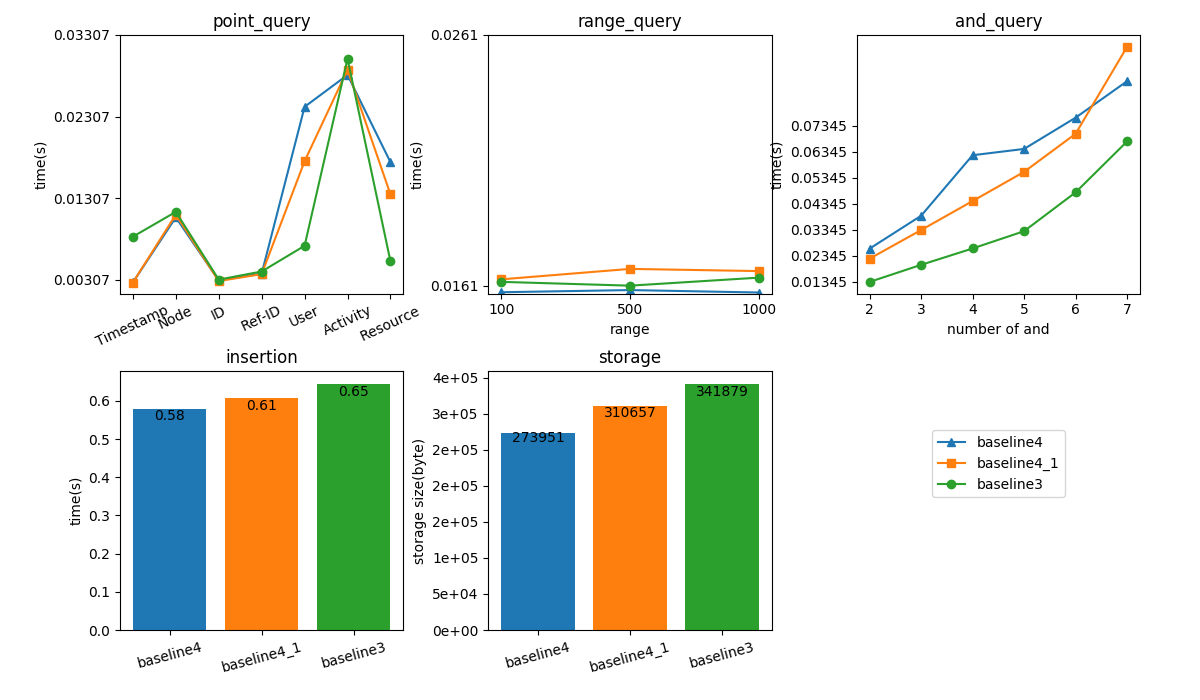
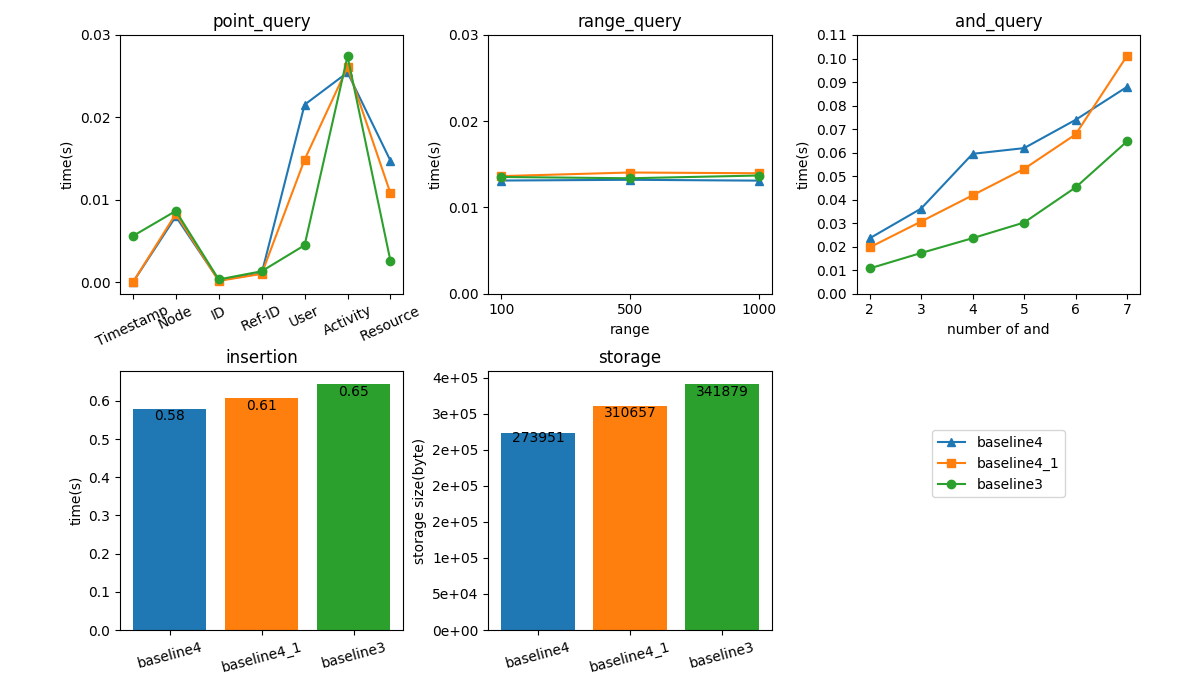
Add y asxis scale

diff --git a/draw.py b/draw.py
@@ -50,15 +50,18 @@ def main():
     for result in results:
         with open(result+'.json', 'r') as f:
             benchmark.append(json.load(f))
+    ymin = sys.maxsize
+    ymax = 0
     for i in range(len(titles)):
         ax = plt.subplot(ROWs, COLs, i+1)
         for j, b in enumerate(benchmark):
             p = plt.plot(b[titles[i]].keys(),
                          b[titles[i]].values(), marker=markers[j])
             colors.append(p[0].get_color())
-        # ax.yaxis.set_major_formatter(ticker.FormatStrFormatter('%.2f'))
-        plt.yticks(np.arange(min(b[titles[i]].values()),
-                             max(b[titles[i]].values())+SCALE, SCALE))
+            ymin = min(ymin, min(b[titles[i]].values()))
+            ymax = max(ymax, max(b[titles[i]].values()))
+        ax.yaxis.set_major_formatter(ticker.FormatStrFormatter('%.2f'))
+        plt.yticks(np.arange(ymin, ymax+SCALE, SCALE))
         plt.xticks(rotation=xrotaions[i])
         plt.title(titles[i])
         plt.ylabel('time(s)')
